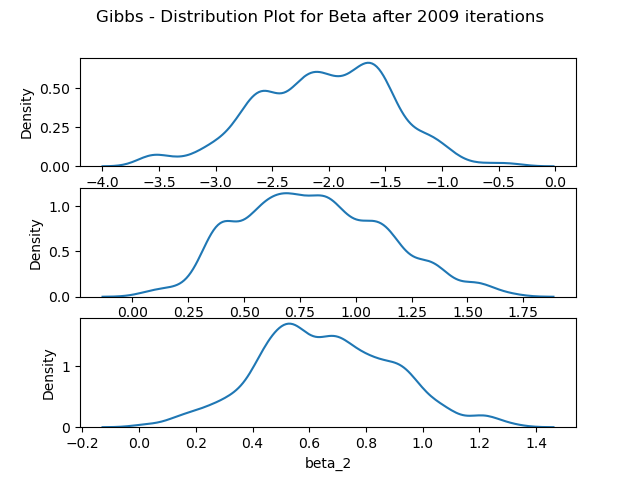
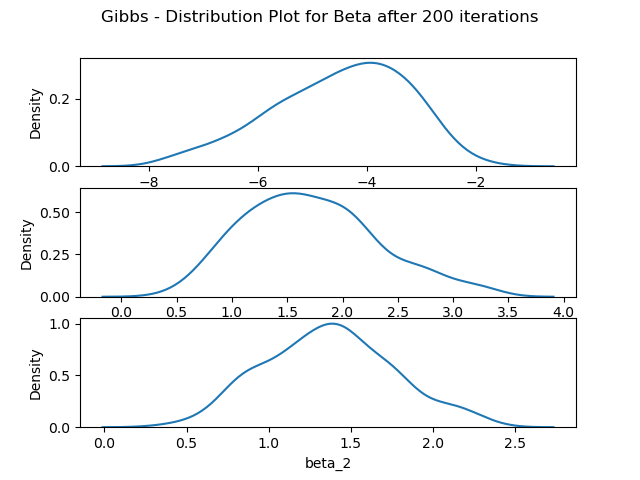
p

diff --git a/gibbs_simulation.py b/gibbs_simulation.py
@@ -24,13 +24,13 @@ def simul(n_iter, warmup):
     PRIOR = "multinorm" #low-variance
     m = GibbsProbit(prior="multi-norm", intercept=True)
     mc = m.fit(X, Y, n_iter=n_iter, warmup=warmup, seed=SEED)
-    trace_plot(mc, path=BASE_PATH/f"trace_{METHOD}_{PRIOR}_{n_iter}_warmup_{warmup}.png", replace=REPLACE, title_prefix=f"{METHOD.capitalize()} - ")
+    trace_plot(mc, path=BASE_PATH/f"trace_{METHOD}_{PRIOR}_{n_iter}_warmup_{warmup}_low.png", replace=REPLACE, title_prefix=f"{METHOD.capitalize()} - ")
     dist_plot(mc, warmup=warmup, path=BASE_PATH/f"dist_{METHOD}_{PRIOR}_{n_iter}_warmup_{warmup}.png", replace=REPLACE, title_prefix=f"{METHOD.capitalize()} - ")
 
     PRIOR = "multinorm" #high-variance
     m = GibbsProbit(prior="multi-norm", intercept=True)
-    mc = m.fit(X, Y, n_iter=n_iter, warmup=warmup, seed=SEED, b_star=np.eye(X.shape[1]+1))*10
-    trace_plot(mc, path=BASE_PATH/f"trace_{METHOD}_{PRIOR}_{n_iter}_warmup_{warmup}.png", replace=REPLACE, title_prefix=f"{METHOD.capitalize()} - ")
+    mc = m.fit(X, Y, n_iter=n_iter, warmup=warmup, seed=SEED, b_star=np.eye(X.shape[1]+1)*10)
+    trace_plot(mc, path=BASE_PATH/f"trace_{METHOD}_{PRIOR}_{n_iter}_warmup_{warmup}_high.png", replace=REPLACE, title_prefix=f"{METHOD.capitalize()} - ")
     dist_plot(mc, warmup=warmup, path=BASE_PATH/f"dist_{METHOD}_{PRIOR}_{n_iter}_warmup_{warmup}.png", replace=REPLACE, title_prefix=f"{METHOD.capitalize()} - ")
 
 if __name__ == "__main__":
@@ -43,5 +43,6 @@ if __name__ == "__main__":
     simul(N_ITER, WARMUP)
 
     # Larger number of iterations
-    N_ITER, WARMUP = 20000, 0
+    N_ITER, WARMUP = 20000, 200
     simul(N_ITER, WARMUP)
+
